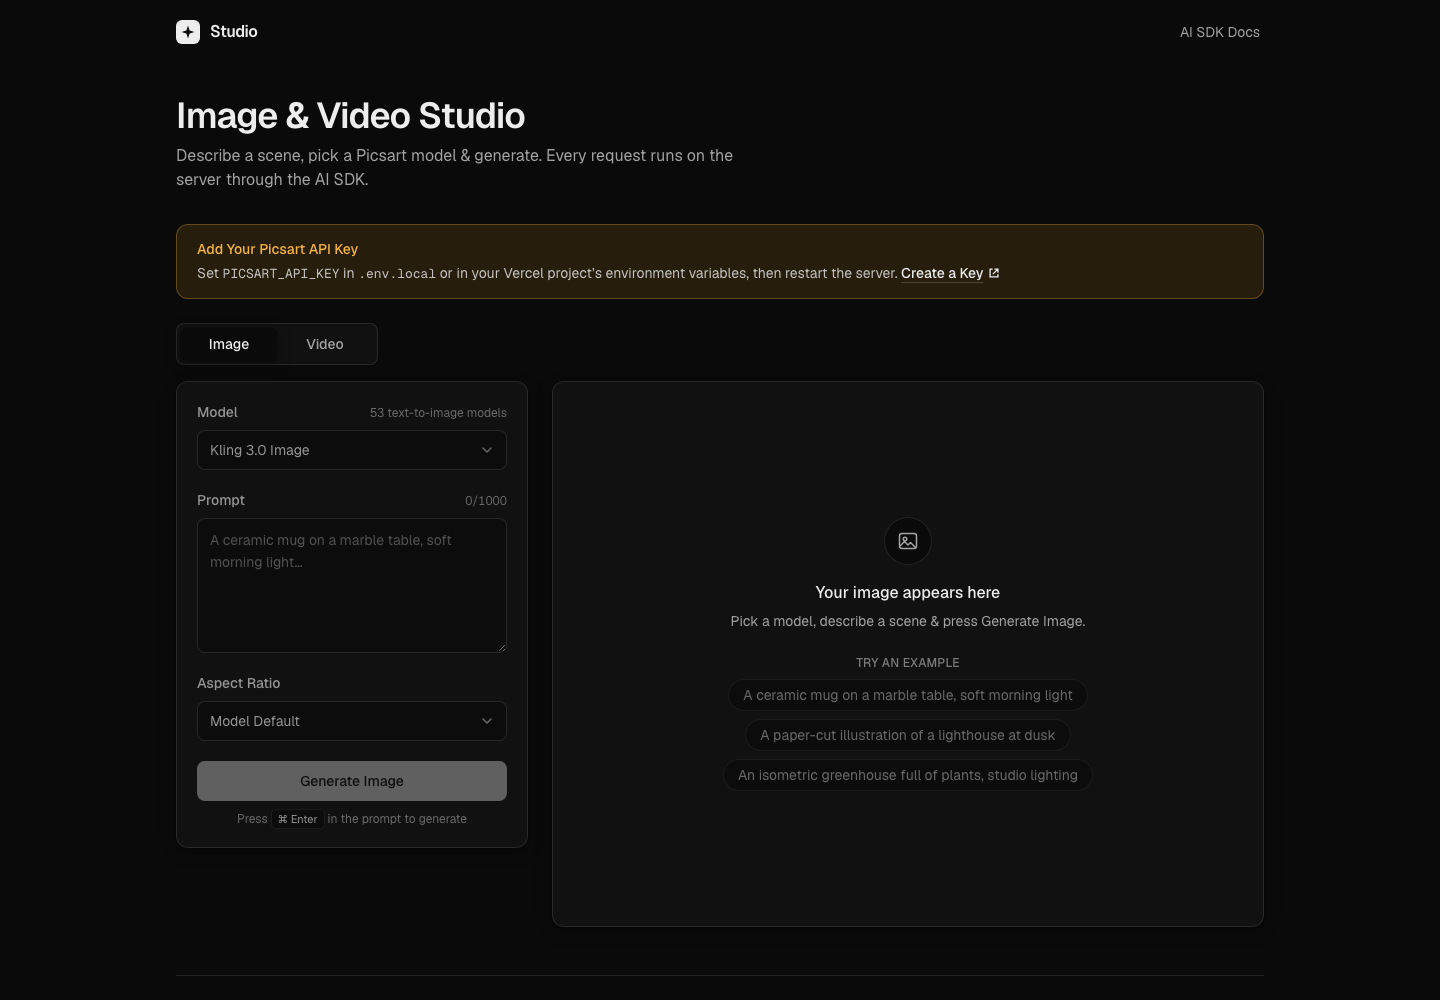
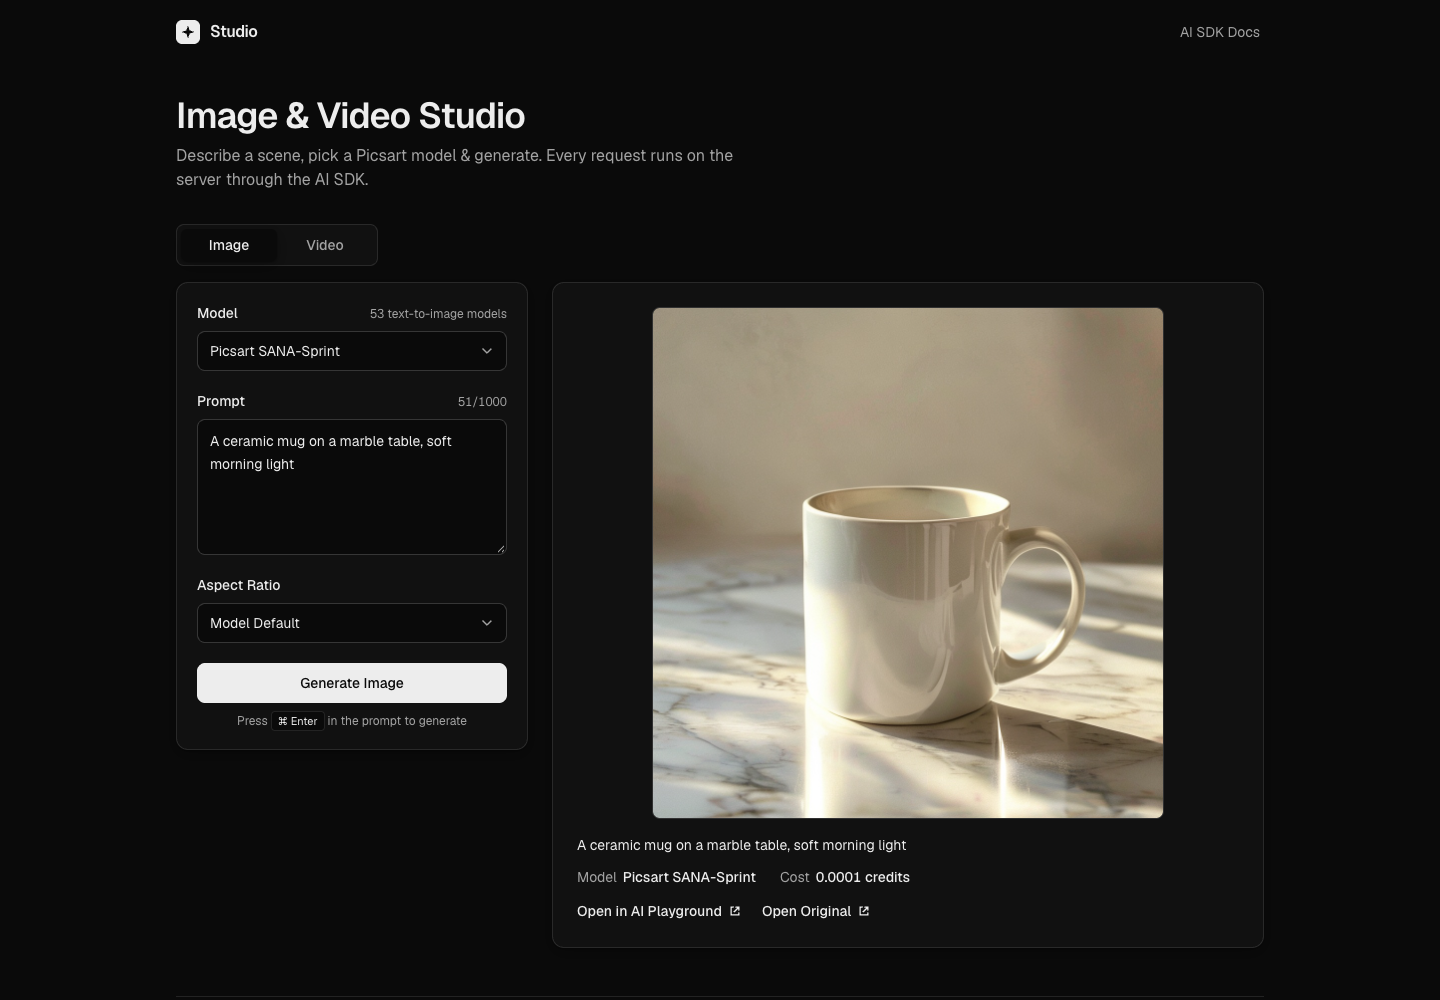
Show a generated image in the README screenshots

diff --git a/README.md b/README.md
@@ -4,7 +4,10 @@ A Next.js starter that generates images and videos with Picsart models through t
 
 [![Deploy with Vercel](https://vercel.com/button)](https://vercel.com/new/clone?repository-url=https%3A%2F%2Fgithub.com%2FPicsArt%2Fpicsart-vercel-starter&env=PICSART_API_KEY&envDescription=Your%20Picsart%20API%20key%2C%20used%20on%20the%20server%20to%20generate%20images%20and%20videos&envLink=https://picsart.com/api-platform/docs/authentication)
 
-![The studio before an API key is added](docs/screenshot.png)
+<picture>
+  <source media="(prefers-color-scheme: dark)" srcset="docs/screenshot-dark.png">
+  <img alt="The studio after generating an image with Picsart SANA-Sprint" src="docs/screenshot.png">
+</picture>
 
 ## What it does
 
